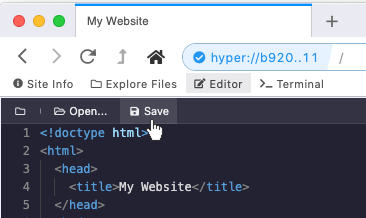
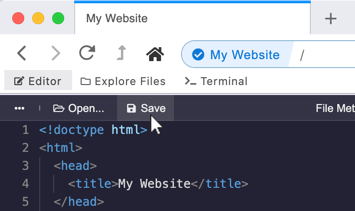
GitBook: [master] 41 pages and 25 assets modified

diff --git a/beginner/importing-and-exporting-files.md b/beginner/importing-and-exporting-files.md
@@ -6,7 +6,7 @@ Visit your hyperdrive and [open the editor](editor.md). Then expand the files li
 
 ![Open the files listing by clicking the folder icon.](../.gitbook/assets/editor-list-files.png)
 
-Right click in the files listing \(but not on a file\) and select "Import files" to import or "Export files" to export all files in the drive.
+Right click in the files listing \(but not on a file\) and select "Import file\(s\)" or "Import folder\(s\)" to import files or folders, or "Export files" to export all files in the drive.
 
 ![](../.gitbook/assets/editor-import-files.png)
 

diff --git a/beginner/changing-a-drive-title-or-thumb.md b/beginner/changing-a-drive-title-or-thumb.md
@@ -16,7 +16,7 @@ Visit the drive, then click the blue address button in the URL bar. In the menu 
 
 ## Editing Properties From "My Drives"
 
-Open a new tab, then navigate to the "My Drives" section. Right click on your target and select "Drive Properties."
+Open a new tab and look in the "My Drives" section. Right click on your target drive and select "Drive Properties."
 
-![](../.gitbook/assets/drive-properties-in-my-drives.png)
+![](../.gitbook/assets/drive-properties-in-my-drives%20%281%29.png)
 

diff --git a/beginner/editor.md b/beginner/editor.md
@@ -18,7 +18,7 @@ To save your work, press the "Save" button or press `Cmd+S` \(MacOS\) or `Ctrl+S
 
 ## Navigating Files in the Hyperdrive
 
-To view a files listing for the current Hyperdrive, click the folder icon in the top left.
+To view a files listing for the current Hyperdrive, click the ellispis icon in the top left.
 
 ![](../.gitbook/assets/editor-list-files.png)
 

diff --git a/beginner/sharing-hyperdrives.md b/beginner/sharing-hyperdrives.md
@@ -2,7 +2,7 @@
 
 Each hyperdrive has its own URL. You share the URL so that other people can visit it.
 
-You can copy the URL by clicking the dropdown arrow on the right of the location bar and selecting "Copy URL."
+You can copy the URL by clicking the blue button on the left side of the location bar and selecting "Copy URL."
 
 ![](../.gitbook/assets/copy-url.png)
 

diff --git a/beginner/creating-new-hyperdrives.md b/beginner/creating-new-hyperdrives.md
@@ -6,7 +6,7 @@ Only the creator of a Hyperdrive can change its files. Visitors can only view th
 
 To create a new Hyperdrive, click the hamburger menu on the top right of the browser.
 
-![](../.gitbook/assets/open-browser-menu.png)
+![](../.gitbook/assets/open-browser-menu%20%281%29.png)
 
 Then select "New Hyperdrive..."
 
